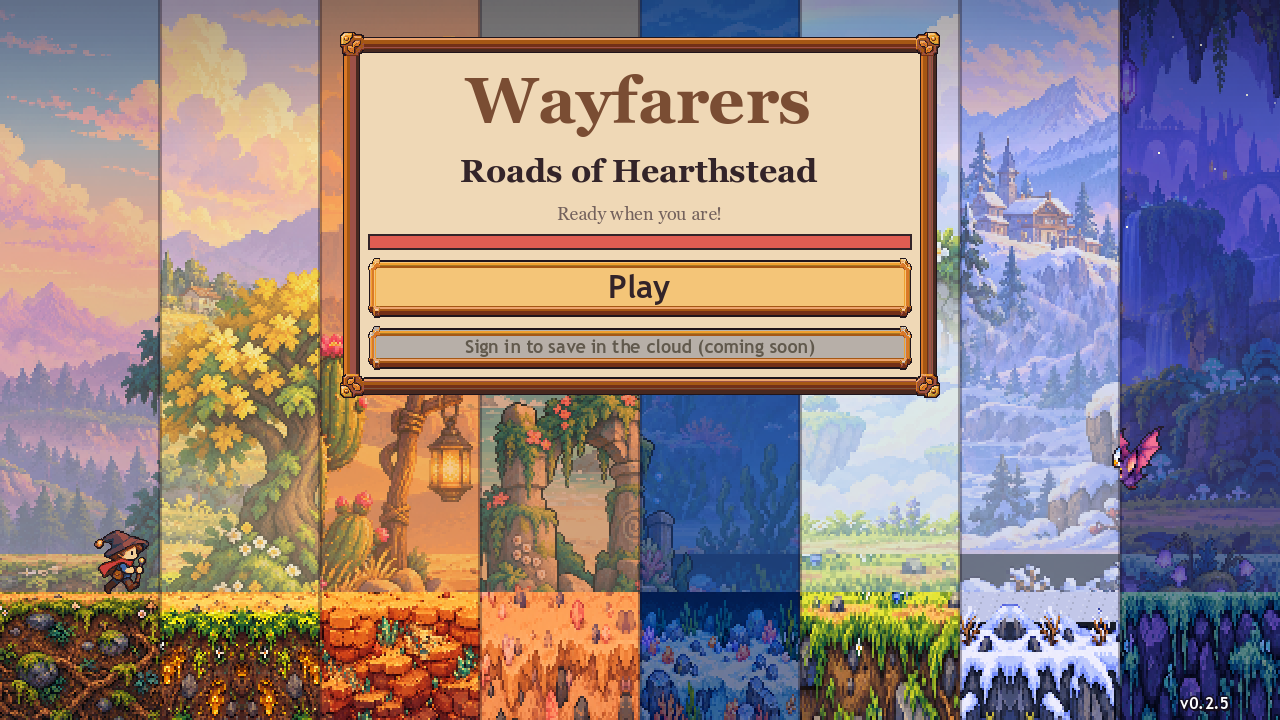
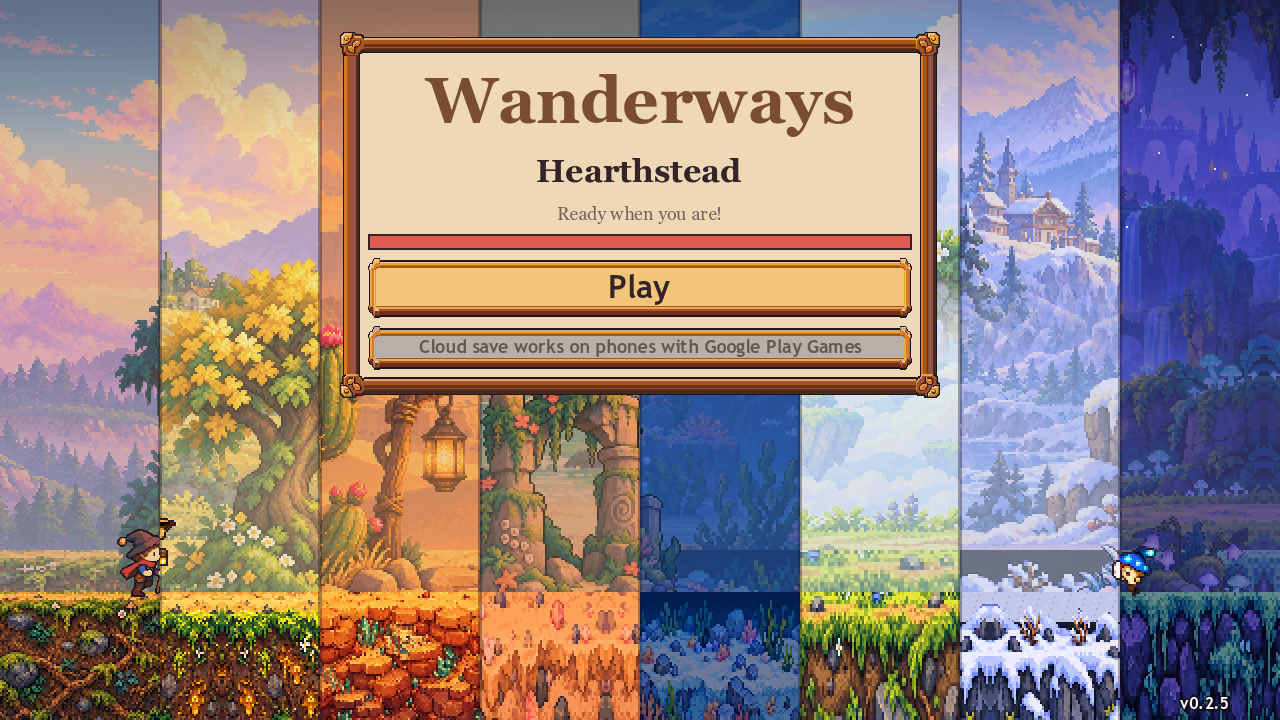
Rename to Wanderways: Hearthstead

diff --git a/index.html b/index.html
@@ -3,7 +3,7 @@
 <head>
 <meta charset="utf-8">
 <meta name="viewport" content="width=device-width, initial-scale=1">
-<title>Wayfarers: Roads of Hearthstead</title>
+<title>Wanderways: Hearthstead</title>
 <meta name="description" content="A cozy idle runner. Run the four wandering roads, bonk grumpy critters, rebuild Hearthstead, and bring home the Compass needle a goose ate.">
 <style>
   :root { --paper: #f3e3c3; --ink: #3a2a1e; --wood: #7a4a2a; --gold: #e0a83a; --sky: #2b3a5c; }
@@ -24,14 +24,14 @@
 </head>
 <body>
 <header>
-  <h1>Wayfarers</h1>
-  <p>Roads of Hearthstead</p>
+  <h1>Wanderways</h1>
+  <p>Hearthstead</p>
 </header>
 <main>
   <section class="card">
     <p>Gerald the goose ate the Great Compass's needle. Then he sneezed. Twelve times.</p>
     <p>Now the Four Roads wander, Hearthstead drifts, and the twelve grumpiest creatures out there each hold a shard. You were late to the village meeting, which in Hearthstead counts as volunteering.</p>
-    <p><strong>Wayfarers</strong> is a cozy idle runner. Run the roads (or let them run while you nap), bonk critters, befriend bosses who become your pen pals, rebuild and rearrange your own village, grow surprises in the Seed Patch, and find out why the goose really did it.</p>
+    <p><strong>Wanderways: Hearthstead</strong> is a cozy idle runner. Run the roads (or let them run while you nap), bonk critters, befriend bosses who become your pen pals, rebuild and rearrange your own village, grow surprises in the Seed Patch, and find out why the goose really did it.</p>
     <p><span class="badge">Coming soon to Google Play</span></p>
   </section>
   <section class="shots">

diff --git a/privacy.html b/privacy.html
@@ -3,7 +3,7 @@
 <head>
 <meta charset="utf-8">
 <meta name="viewport" content="width=device-width, initial-scale=1">
-<title>Privacy Policy · Wayfarers: Roads of Hearthstead</title>
+<title>Privacy Policy · Wanderways: Hearthstead</title>
 <style>
   :root { --paper: #f3e3c3; --ink: #3a2a1e; --wood: #7a4a2a; --sky: #2b3a5c; }
   body { margin: 0; background: var(--sky); color: var(--ink); font-family: Georgia, "Times New Roman", serif; line-height: 1.6; }
@@ -17,7 +17,7 @@
 <body>
 <main>
 <h1>Privacy Policy</h1>
-<p><strong>Wayfarers: Roads of Hearthstead</strong> ("the game"), made by David Humme ("we").<br>Last updated: 3 November 2026.</p>
+<p><strong>Wanderways: Hearthstead</strong> ("the game"), made by David Humme ("we").<br>Last updated: 3 November 2026.</p>
 
 <p>We don't run our own servers and we don't collect your personal data ourselves. The game uses a few Google services, which handle some data as described below.</p>
 

diff --git a/README.md b/README.md
@@ -1,5 +1,5 @@
-# Wayfarers website
+# Wanderways website
 
-The public page for *Wayfarers: Roads of Hearthstead*: the game page, the privacy policy and app-ads.txt. Served by GitHub Pages from this repository (DavidHumme.github.io).
+The public page for *Wanderways: Hearthstead*: the game page, the privacy policy and app-ads.txt. Served by GitHub Pages from this repository (DavidHumme.github.io).
 
 Before publishing, replace CONTACT_EMAIL in index.html and privacy.html, and put the real AdMob line in app-ads.txt.
